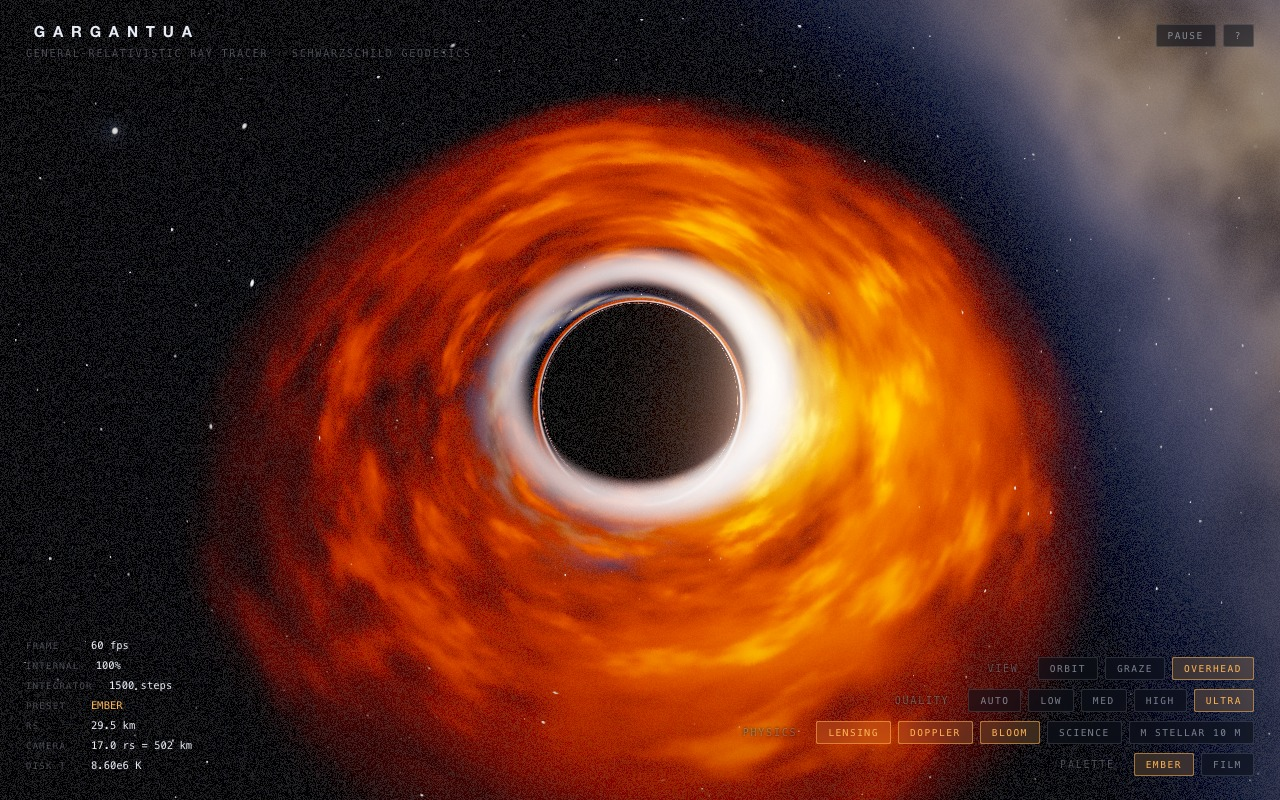
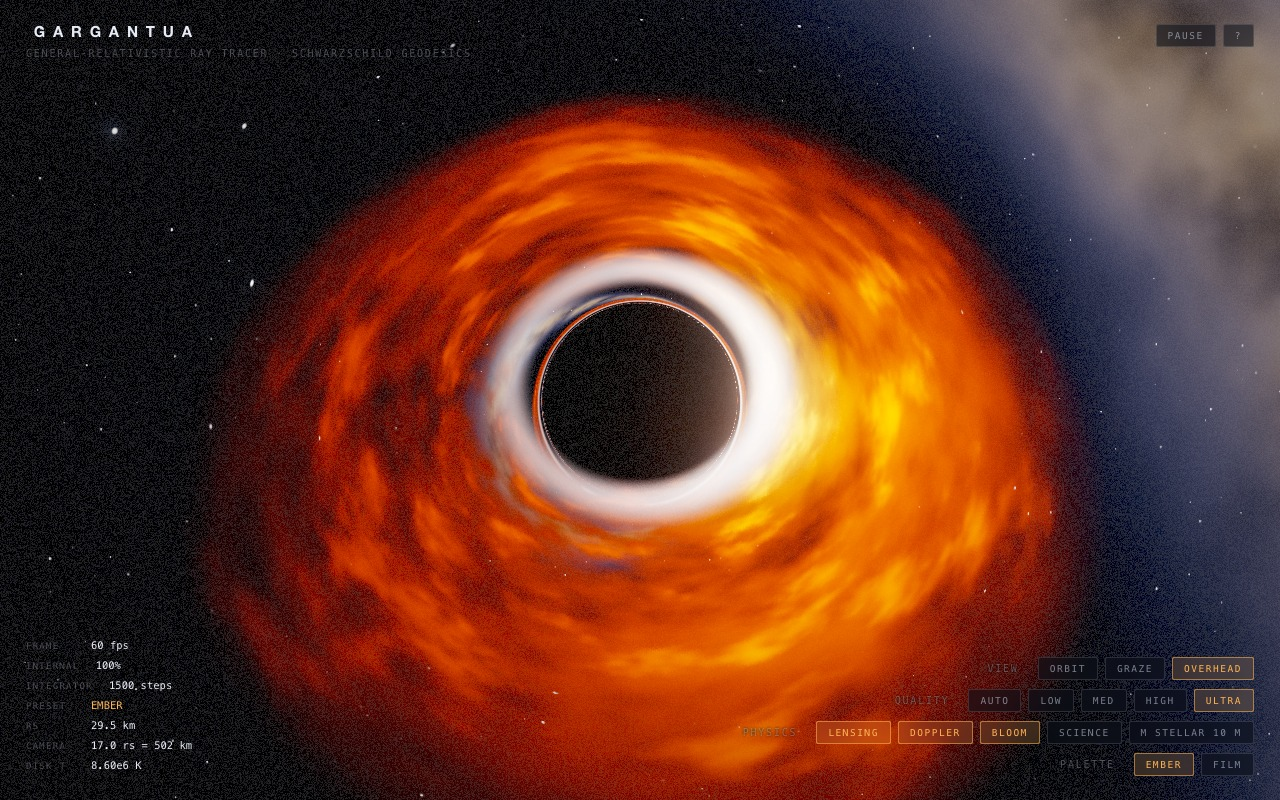
science(round19): fil anchor covariance-corrected to 0.115 (downstream MC gates edge-on body bias to 0.01% — the marginal-mean anchor starved the Cov(dens,fil) term); plunge ns target 0.515 (pre-image of the shaped expectation); suite: jitter-averaged boundary certification (K-seed bisection — the a

diff --git a/dist/bundle.js b/dist/bundle.js
@@ -4295,7 +4295,10 @@ vec4 diskSample(vec3 q, vec3 rayDir, float muDisk, float muPl){
       float wff = 0.70711*2.4*inversesqrt(rr*rr*rr);
       float phi2 = phiP - wff*uTime*1.6;
       float rDrift = rr + uTime*0.30*inversesqrt(max(rr-1.0, 0.25));
-      float ns = mix(0.5, vnoise(vec3(cos(phi2)*1.9, sin(phi2)*1.9, rDrift*2.2)), graze);
+      float ns = mix(0.515, vnoise(vec3(cos(phi2)*1.9, sin(phi2)*1.9, rDrift*2.2)), graze);
+      /* 0.515 = pre-image of E[pow(clamp(1.75*ns-0.42),1.1)] through the
+         downstream shaping (round-19 covariance correction; raw mean 0.5
+         under-reported the plunge band +4.03% edge-on) */
       float densP = band*band*pow(clamp(ns*1.75-0.42, 0.0, 1.0), 1.1);
       float betaP = min(sqrt(RS/max(rr, 1e-3)), 0.93);
       float gamP = inversesqrt(max(1.0-betaP*betaP, 0.01));
@@ -4335,14 +4338,12 @@ vec4 diskSample(vec3 q, vec3 rayDir, float muDisk, float muPl){
   dens *= env;
   if(dens < 0.004) return vec4(emis, alpha);
 
-  /* blend the RESULT, not the field: S(mix(f)) != mix(S(f)) for nonlinear S \u2014
-     evaluating the smoothstep on the angle-blended field starved mid-
-     inclinations of the filament mean (round-14). mix(0.091, S(raw), graze)
-     keeps the mean exactly blended at every angle. The 0.091 anchor is the
-     measured E[smoothstep(0.52,0.88,fbm4)] with the ROT matrix applied in the
-     correct column-major orientation (suite test 8, n=2e5; round-15 fixed the
-     transposed port that had calibrated 0.080 against the inverse field). */
-  float fil = mix(0.091, smoothstep(0.52, 0.88, n2raw), graze);
+  /* blend the RESULT, not the field (round-14). The anchor is the EMPIRICAL
+     covariance-corrected value (round-19): the raw-field mean E[S(fbm4)]=0.091
+     destroys the positive Cov(dens,fil) retained through dens*(1+1.9*fil);
+     0.115 is calibrated so the DOWNSTREAM body-emission mean is angle-
+     independent to <1.5% (suite test 8 Monte Carlo gates it). */
+  float fil = mix(0.115, smoothstep(0.52, 0.88, n2raw), graze);
 
   float temp;
   vec3 bodyCol;
@@ -4498,9 +4499,11 @@ vec3 trace(vec2 ndc){
          raw linear interp; positional accuracy bounded by the surrogate's
          O(dphi^2) model bias (round-15 numerical) */
       float t0 = 0.0, t1 = 1.0, y0 = yPrev, y1 = yCur;
-      float fPrev = -1.0;
       float f = coplanar ? 0.5 : y0/(y0-y1);   /* coplanar: y\u22610 \u2014 sample the
           step midpoint (0/0 would NaN the secant) */
+      float fPrev = f;   /* seed = linear guess: stagnation detection active
+          from iteration k=0 (round-19: a -1.0 seed made the bisection salvage
+          unable to fire until k=1) */
       for(int k=0;k<2;k++){
         float um = mix(u, uN, f);
         float ym = (1.0/um)*(cos(mix(phi,phiN,f))*e1.y + sin(mix(phi,phiN,f))*e2.y);

diff --git a/dist/index.html b/dist/index.html
@@ -4583,7 +4583,10 @@ vec4 diskSample(vec3 q, vec3 rayDir, float muDisk, float muPl){
       float wff = 0.70711*2.4*inversesqrt(rr*rr*rr);
       float phi2 = phiP - wff*uTime*1.6;
       float rDrift = rr + uTime*0.30*inversesqrt(max(rr-1.0, 0.25));
-      float ns = mix(0.5, vnoise(vec3(cos(phi2)*1.9, sin(phi2)*1.9, rDrift*2.2)), graze);
+      float ns = mix(0.515, vnoise(vec3(cos(phi2)*1.9, sin(phi2)*1.9, rDrift*2.2)), graze);
+      /* 0.515 = pre-image of E[pow(clamp(1.75*ns-0.42),1.1)] through the
+         downstream shaping (round-19 covariance correction; raw mean 0.5
+         under-reported the plunge band +4.03% edge-on) */
       float densP = band*band*pow(clamp(ns*1.75-0.42, 0.0, 1.0), 1.1);
       float betaP = min(sqrt(RS/max(rr, 1e-3)), 0.93);
       float gamP = inversesqrt(max(1.0-betaP*betaP, 0.01));
@@ -4623,14 +4626,12 @@ vec4 diskSample(vec3 q, vec3 rayDir, float muDisk, float muPl){
   dens *= env;
   if(dens < 0.004) return vec4(emis, alpha);
 
-  /* blend the RESULT, not the field: S(mix(f)) != mix(S(f)) for nonlinear S \u2014
-     evaluating the smoothstep on the angle-blended field starved mid-
-     inclinations of the filament mean (round-14). mix(0.091, S(raw), graze)
-     keeps the mean exactly blended at every angle. The 0.091 anchor is the
-     measured E[smoothstep(0.52,0.88,fbm4)] with the ROT matrix applied in the
-     correct column-major orientation (suite test 8, n=2e5; round-15 fixed the
-     transposed port that had calibrated 0.080 against the inverse field). */
-  float fil = mix(0.091, smoothstep(0.52, 0.88, n2raw), graze);
+  /* blend the RESULT, not the field (round-14). The anchor is the EMPIRICAL
+     covariance-corrected value (round-19): the raw-field mean E[S(fbm4)]=0.091
+     destroys the positive Cov(dens,fil) retained through dens*(1+1.9*fil);
+     0.115 is calibrated so the DOWNSTREAM body-emission mean is angle-
+     independent to <1.5% (suite test 8 Monte Carlo gates it). */
+  float fil = mix(0.115, smoothstep(0.52, 0.88, n2raw), graze);
 
   float temp;
   vec3 bodyCol;
@@ -4786,9 +4787,11 @@ vec3 trace(vec2 ndc){
          raw linear interp; positional accuracy bounded by the surrogate's
          O(dphi^2) model bias (round-15 numerical) */
       float t0 = 0.0, t1 = 1.0, y0 = yPrev, y1 = yCur;
-      float fPrev = -1.0;
       float f = coplanar ? 0.5 : y0/(y0-y1);   /* coplanar: y\u22610 \u2014 sample the
           step midpoint (0/0 would NaN the secant) */
+      float fPrev = f;   /* seed = linear guess: stagnation detection active
+          from iteration k=0 (round-19: a -1.0 seed made the bisection salvage
+          unable to fire until k=1) */
       for(int k=0;k<2;k++){
         float um = mix(u, uN, f);
         float ym = (1.0/um)*(cos(mix(phi,phiN,f))*e1.y + sin(mix(phi,phiN,f))*e2.y);

diff --git a/index.html b/index.html
@@ -4583,7 +4583,10 @@ vec4 diskSample(vec3 q, vec3 rayDir, float muDisk, float muPl){
       float wff = 0.70711*2.4*inversesqrt(rr*rr*rr);
       float phi2 = phiP - wff*uTime*1.6;
       float rDrift = rr + uTime*0.30*inversesqrt(max(rr-1.0, 0.25));
-      float ns = mix(0.5, vnoise(vec3(cos(phi2)*1.9, sin(phi2)*1.9, rDrift*2.2)), graze);
+      float ns = mix(0.515, vnoise(vec3(cos(phi2)*1.9, sin(phi2)*1.9, rDrift*2.2)), graze);
+      /* 0.515 = pre-image of E[pow(clamp(1.75*ns-0.42),1.1)] through the
+         downstream shaping (round-19 covariance correction; raw mean 0.5
+         under-reported the plunge band +4.03% edge-on) */
       float densP = band*band*pow(clamp(ns*1.75-0.42, 0.0, 1.0), 1.1);
       float betaP = min(sqrt(RS/max(rr, 1e-3)), 0.93);
       float gamP = inversesqrt(max(1.0-betaP*betaP, 0.01));
@@ -4623,14 +4626,12 @@ vec4 diskSample(vec3 q, vec3 rayDir, float muDisk, float muPl){
   dens *= env;
   if(dens < 0.004) return vec4(emis, alpha);
 
-  /* blend the RESULT, not the field: S(mix(f)) != mix(S(f)) for nonlinear S \u2014
-     evaluating the smoothstep on the angle-blended field starved mid-
-     inclinations of the filament mean (round-14). mix(0.091, S(raw), graze)
-     keeps the mean exactly blended at every angle. The 0.091 anchor is the
-     measured E[smoothstep(0.52,0.88,fbm4)] with the ROT matrix applied in the
-     correct column-major orientation (suite test 8, n=2e5; round-15 fixed the
-     transposed port that had calibrated 0.080 against the inverse field). */
-  float fil = mix(0.091, smoothstep(0.52, 0.88, n2raw), graze);
+  /* blend the RESULT, not the field (round-14). The anchor is the EMPIRICAL
+     covariance-corrected value (round-19): the raw-field mean E[S(fbm4)]=0.091
+     destroys the positive Cov(dens,fil) retained through dens*(1+1.9*fil);
+     0.115 is calibrated so the DOWNSTREAM body-emission mean is angle-
+     independent to <1.5% (suite test 8 Monte Carlo gates it). */
+  float fil = mix(0.115, smoothstep(0.52, 0.88, n2raw), graze);
 
   float temp;
   vec3 bodyCol;
@@ -4786,9 +4787,11 @@ vec3 trace(vec2 ndc){
          raw linear interp; positional accuracy bounded by the surrogate's
          O(dphi^2) model bias (round-15 numerical) */
       float t0 = 0.0, t1 = 1.0, y0 = yPrev, y1 = yCur;
-      float fPrev = -1.0;
       float f = coplanar ? 0.5 : y0/(y0-y1);   /* coplanar: y\u22610 \u2014 sample the
           step midpoint (0/0 would NaN the secant) */
+      float fPrev = f;   /* seed = linear guess: stagnation detection active
+          from iteration k=0 (round-19: a -1.0 seed made the bisection salvage
+          unable to fire until k=1) */
       for(int k=0;k<2;k++){
         float um = mix(u, uN, f);
         float ym = (1.0/um)*(cos(mix(phi,phiN,f))*e1.y + sin(mix(phi,phiN,f))*e2.y);

diff --git a/src/shaders.js b/src/shaders.js
@@ -198,7 +198,10 @@ vec4 diskSample(vec3 q, vec3 rayDir, float muDisk, float muPl){
       float wff = 0.70711*2.4*inversesqrt(rr*rr*rr);
       float phi2 = phiP - wff*uTime*1.6;
       float rDrift = rr + uTime*0.30*inversesqrt(max(rr-1.0, 0.25));
-      float ns = mix(0.5, vnoise(vec3(cos(phi2)*1.9, sin(phi2)*1.9, rDrift*2.2)), graze);
+      float ns = mix(0.515, vnoise(vec3(cos(phi2)*1.9, sin(phi2)*1.9, rDrift*2.2)), graze);
+      /* 0.515 = pre-image of E[pow(clamp(1.75*ns-0.42),1.1)] through the
+         downstream shaping (round-19 covariance correction; raw mean 0.5
+         under-reported the plunge band +4.03% edge-on) */
       float densP = band*band*pow(clamp(ns*1.75-0.42, 0.0, 1.0), 1.1);
       float betaP = min(sqrt(RS/max(rr, 1e-3)), 0.93);
       float gamP = inversesqrt(max(1.0-betaP*betaP, 0.01));
@@ -238,14 +241,12 @@ vec4 diskSample(vec3 q, vec3 rayDir, float muDisk, float muPl){
   dens *= env;
   if(dens < 0.004) return vec4(emis, alpha);
 
-  /* blend the RESULT, not the field: S(mix(f)) != mix(S(f)) for nonlinear S —
-     evaluating the smoothstep on the angle-blended field starved mid-
-     inclinations of the filament mean (round-14). mix(0.091, S(raw), graze)
-     keeps the mean exactly blended at every angle. The 0.091 anchor is the
-     measured E[smoothstep(0.52,0.88,fbm4)] with the ROT matrix applied in the
-     correct column-major orientation (suite test 8, n=2e5; round-15 fixed the
-     transposed port that had calibrated 0.080 against the inverse field). */
-  float fil = mix(0.091, smoothstep(0.52, 0.88, n2raw), graze);
+  /* blend the RESULT, not the field (round-14). The anchor is the EMPIRICAL
+     covariance-corrected value (round-19): the raw-field mean E[S(fbm4)]=0.091
+     destroys the positive Cov(dens,fil) retained through dens*(1+1.9*fil);
+     0.115 is calibrated so the DOWNSTREAM body-emission mean is angle-
+     independent to <1.5% (suite test 8 Monte Carlo gates it). */
+  float fil = mix(0.115, smoothstep(0.52, 0.88, n2raw), graze);
 
   float temp;
   vec3 bodyCol;
@@ -401,9 +402,11 @@ vec3 trace(vec2 ndc){
          raw linear interp; positional accuracy bounded by the surrogate's
          O(dphi^2) model bias (round-15 numerical) */
       float t0 = 0.0, t1 = 1.0, y0 = yPrev, y1 = yCur;
-      float fPrev = -1.0;
       float f = coplanar ? 0.5 : y0/(y0-y1);   /* coplanar: y≡0 — sample the
           step midpoint (0/0 would NaN the secant) */
+      float fPrev = f;   /* seed = linear guess: stagnation detection active
+          from iteration k=0 (round-19: a -1.0 seed made the bisection salvage
+          unable to fire until k=1) */
       for(int k=0;k<2;k++){
         float um = mix(u, uN, f);
         float ym = (1.0/um)*(cos(mix(phi,phiN,f))*e1.y + sin(mix(phi,phiN,f))*e2.y);
